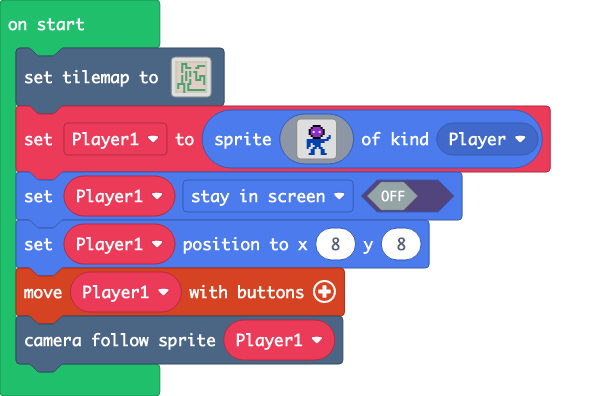
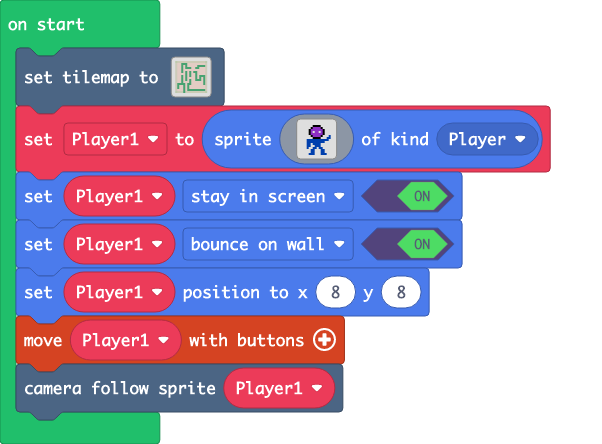
game1

Changed region(s): [[0.0, 0.0303, 0.9269, 0.9394], [0.0598, 0.9394, 0.0897, 0.9697]]

diff --git a/main.ts b/main.ts
@@ -34,7 +34,8 @@ let Player1 = sprites.create(img`
     . . . . . 8 8 . . . 8 8 . . . . 
     . . . . 8 8 8 . . . 8 8 8 . . . 
     `, SpriteKind.Player)
-Player1.setFlag(SpriteFlag.StayInScreen, false)
+Player1.setFlag(SpriteFlag.StayInScreen, true)
+Player1.setFlag(SpriteFlag.BounceOnWall, true)
 Player1.setPosition(8, 8)
 controller.moveSprite(Player1)
 scene.cameraFollowSprite(Player1)
